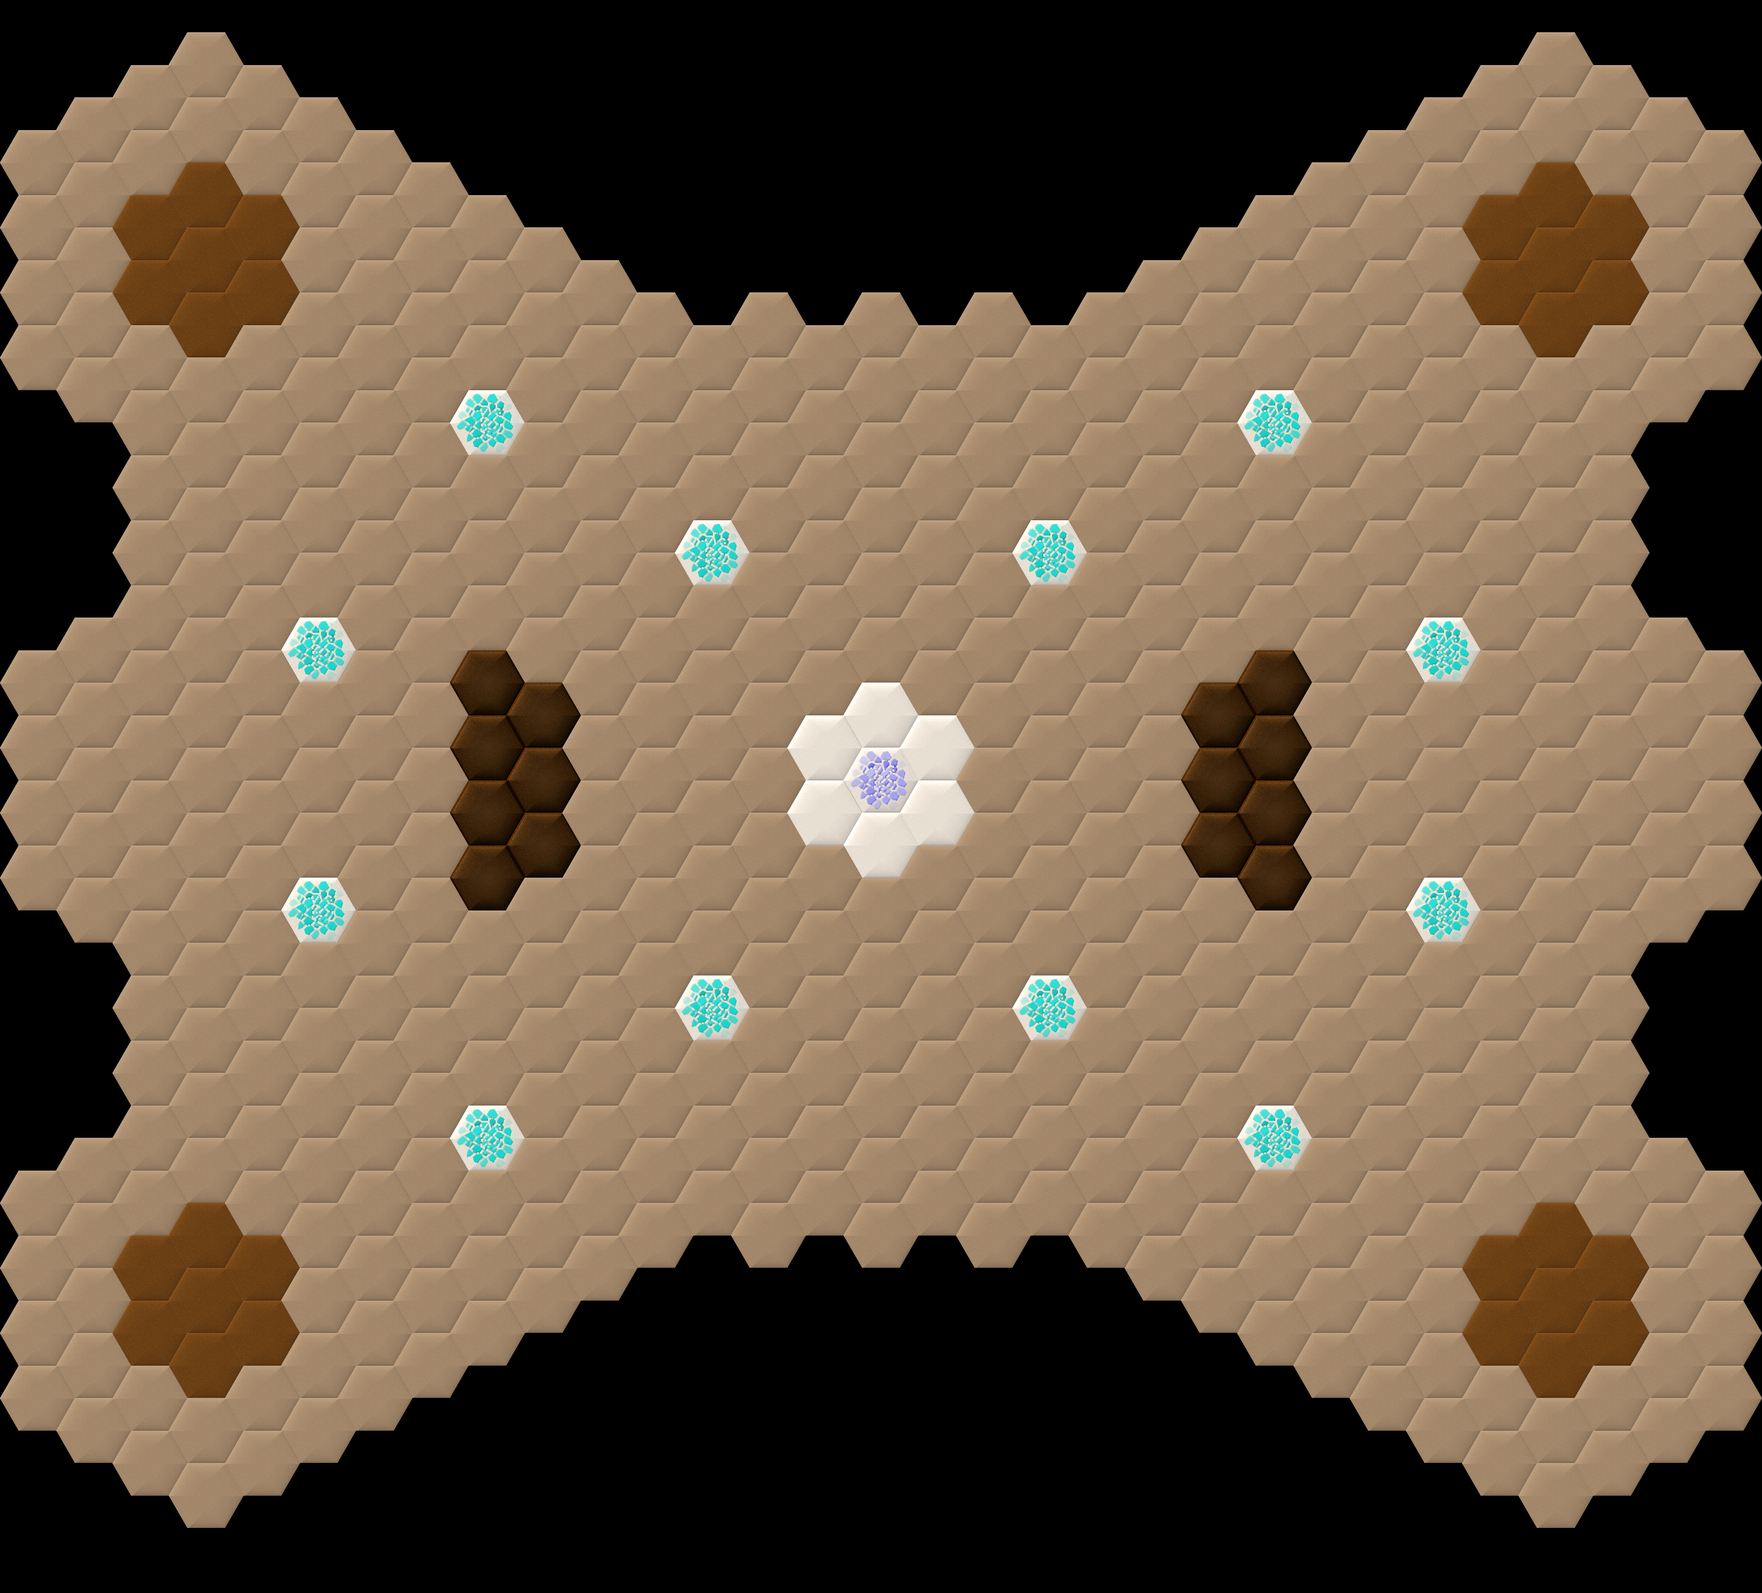
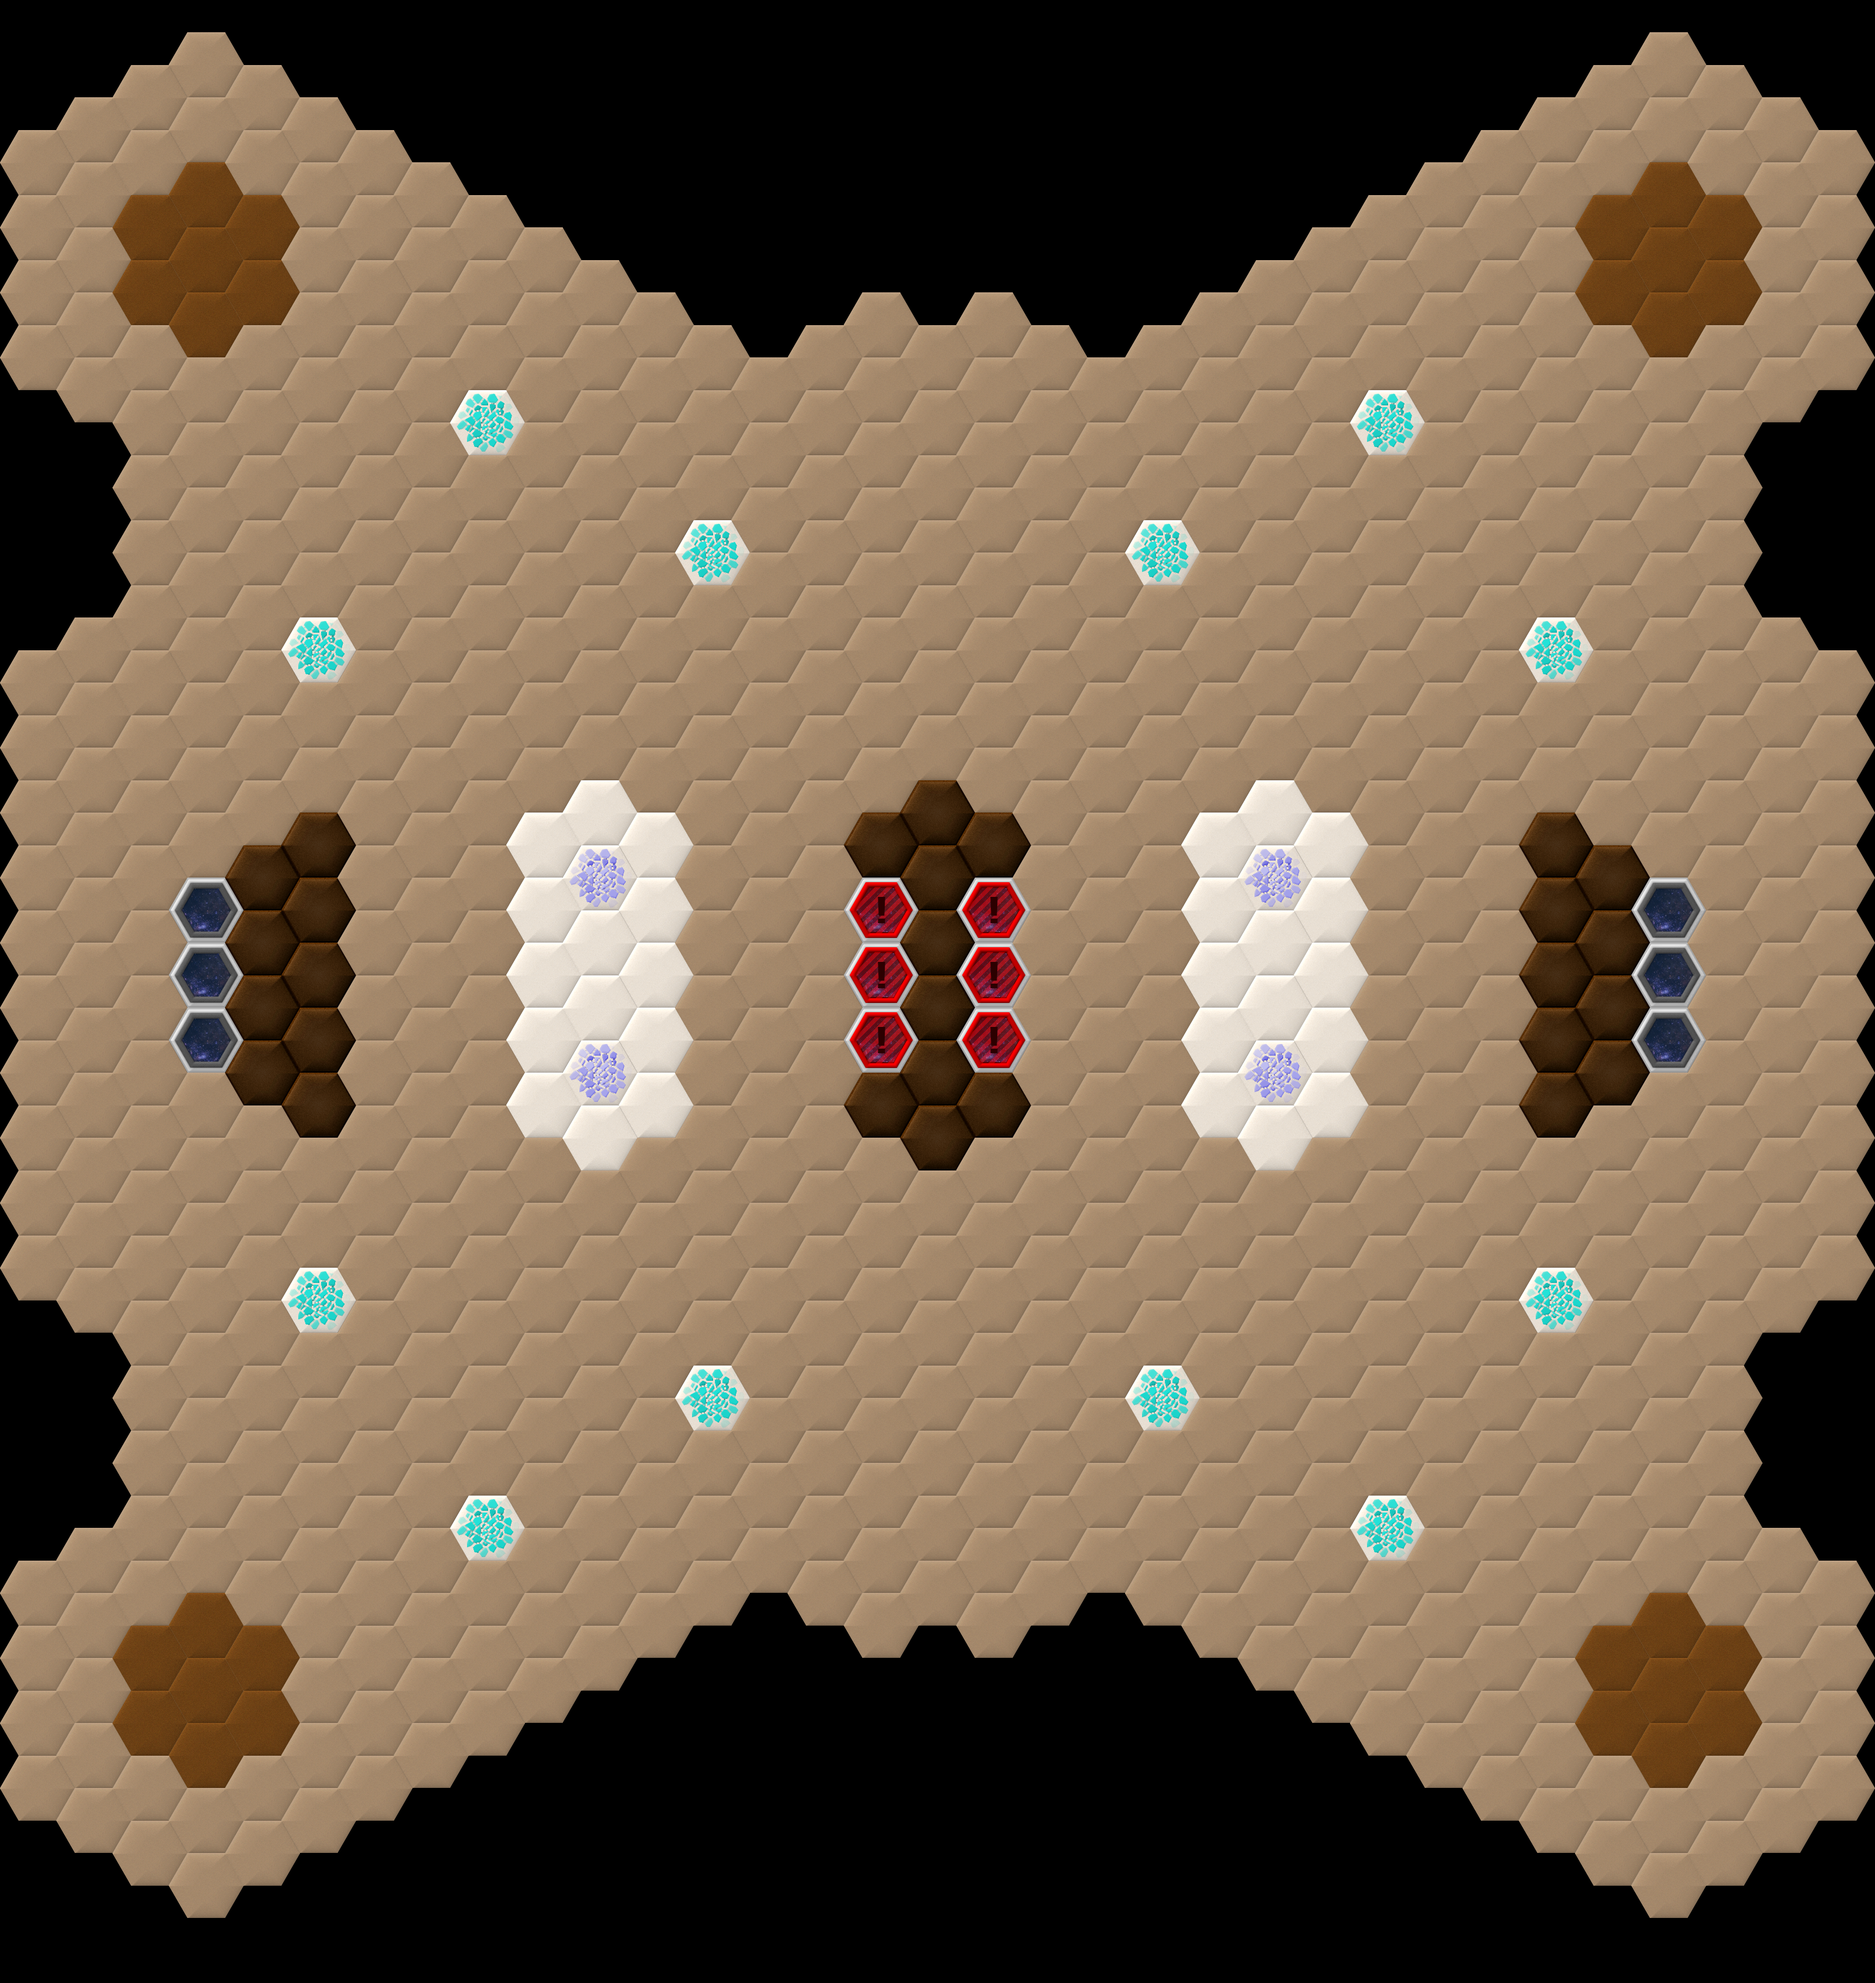
Upload new Vesa map

diff --git a/shared/maps/2v2.js b/shared/maps/2v2.js
@@ -4,34 +4,66 @@ module.exports = {
     name: "Vesa",
     image: "/resources/maps/2v2.png",
     data: [
-        "0 0 0 1 0 0 0 0 0 0 0 0 0 0 0 0 0 0 0 0 0 0 0 0 0 0 0 1 0 0 0",
-        "0 1 1 1 1 1 0 0 0 0 0 0 0 0 0 0 0 0 0 0 0 0 0 0 0 1 1 1 1 1 0",
-        "1 1 1 7 1 1 1 1 0 0 0 0 0 0 0 0 0 0 0 0 0 0 0 1 1 1 1 7 1 1 1",
-        "1 1 7 7 7 1 1 1 1 1 0 0 0 0 0 0 0 0 0 0 0 1 1 1 1 1 7 7 7 1 1",
-        "1 1 7 7 7 1 1 1 1 1 1 1 0 1 0 1 0 1 0 1 1 1 1 1 1 1 7 7 7 1 1",
-        "1 1 1 1 1 1 1 1 1 1 1 1 1 1 1 1 1 1 1 1 1 1 1 1 1 1 1 1 1 1 1",
-        "0 0 1 1 1 1 1 1 3 1 1 1 1 1 1 1 1 1 1 1 1 1 3 1 1 1 1 1 1 0 0",
-        "0 0 1 1 1 1 1 1 1 1 1 1 1 1 1 1 1 1 1 1 1 1 1 1 1 1 1 1 1 0 0",
-        "0 0 1 1 1 1 1 1 1 1 1 1 3 1 1 1 1 1 3 1 1 1 1 1 1 1 1 1 1 0 0",
-        "0 1 1 1 1 3 1 1 1 1 1 1 1 1 1 1 1 1 1 1 1 1 1 1 1 3 1 1 1 1 0",
-        "1 1 1 1 1 1 1 1 5 5 1 1 1 1 1 6 1 1 1 1 1 5 5 1 1 1 1 1 1 1 1",
-        "1 1 1 1 1 1 1 1 5 5 1 1 1 1 6 4 6 1 1 1 1 5 5 1 1 1 1 1 1 1 1",
-        "1 1 1 1 1 1 1 1 5 5 1 1 1 1 6 6 6 1 1 1 1 5 5 1 1 1 1 1 1 1 1",
-        "1 1 1 1 1 3 1 1 5 1 1 1 1 1 1 1 1 1 1 1 1 1 5 1 1 3 1 1 1 1 1",
-        "0 0 1 1 1 1 1 1 1 1 1 1 1 1 1 1 1 1 1 1 1 1 1 1 1 1 1 1 1 0 0",
-        "0 0 1 1 1 1 1 1 1 1 1 1 3 1 1 1 1 1 3 1 1 1 1 1 1 1 1 1 1 0 0",
-        "0 0 1 1 1 1 1 1 1 1 1 1 1 1 1 1 1 1 1 1 1 1 1 1 1 1 1 1 1 0 0",
-        "0 1 1 1 1 1 1 1 3 1 1 1 1 1 1 1 1 1 1 1 1 1 3 1 1 1 1 1 1 1 0",
-        "1 1 1 7 1 1 1 1 1 1 1 1 1 1 1 1 1 1 1 1 1 1 1 1 1 1 1 7 1 1 1",
-        "1 1 7 7 7 1 1 1 1 1 1 0 0 0 0 0 0 0 0 0 1 1 1 1 1 1 7 7 7 1 1",
-        "1 1 7 7 7 1 1 1 1 0 0 0 0 0 0 0 0 0 0 0 0 0 1 1 1 1 7 7 7 1 1",
-        "1 1 1 1 1 1 1 0 0 0 0 0 0 0 0 0 0 0 0 0 0 0 0 0 1 1 1 1 1 1 1",
-        "0 0 1 1 1 0 0 0 0 0 0 0 0 0 0 0 0 0 0 0 0 0 0 0 0 0 1 1 1 0 0",
-        "0 0 0 0 0 0 0 0 0 0 0 0 0 0 0 0 0 0 0 0 0 0 0 0 0 0 0 0 0 0 0"
+        "0 0 0 1 0 0 0 0 0 0 0 0 0 0 0 0 0 0 0 0 0 0 0 0 0 0 0 0 0 1 0 0 0",
+        "0 1 1 1 1 1 0 0 0 0 0 0 0 0 0 0 0 0 0 0 0 0 0 0 0 0 0 1 1 1 1 1 0",
+        "1 1 1 7 1 1 1 1 0 0 0 0 0 0 0 0 0 0 0 0 0 0 0 0 0 1 1 1 1 7 1 1 1",
+        "1 1 7 7 7 1 1 1 1 1 0 0 0 0 0 0 0 0 0 0 0 0 0 1 1 1 1 1 7 7 7 1 1",
+        "1 1 7 7 7 1 1 1 1 1 1 1 0 0 0 1 0 1 0 0 0 1 1 1 1 1 1 1 7 7 7 1 1",
+        "1 1 1 1 1 1 1 1 1 1 1 1 1 1 1 1 1 1 1 1 1 1 1 1 1 1 1 1 1 1 1 1 1",
+        "0 0 1 1 1 1 1 1 3 1 1 1 1 1 1 1 1 1 1 1 1 1 1 1 3 1 1 1 1 1 1 0 0",
+        "0 0 1 1 1 1 1 1 1 1 1 1 1 1 1 1 1 1 1 1 1 1 1 1 1 1 1 1 1 1 1 0 0",
+        "0 0 1 1 1 1 1 1 1 1 1 1 3 1 1 1 1 1 1 1 3 1 1 1 1 1 1 1 1 1 1 0 0",
+        "0 1 1 1 1 3 1 1 1 1 1 1 1 1 1 1 1 1 1 1 1 1 1 1 1 1 1 3 1 1 1 1 0",
+        "1 1 1 1 1 1 1 1 1 1 1 1 1 1 1 1 1 1 1 1 1 1 1 1 1 1 1 1 1 1 1 1 1",
+        "1 1 1 1 1 1 1 1 1 1 1 1 1 1 1 1 1 1 1 1 1 1 1 1 1 1 1 1 1 1 1 1 1",
+        "1 1 1 1 1 5 1 1 1 6 6 6 1 1 1 5 5 5 1 1 1 6 6 6 1 1 1 5 1 1 1 1 1",
+        "1 1 1 8 5 5 1 1 1 6 4 6 1 1 1 9 5 9 1 1 1 6 4 6 1 1 1 5 5 8 1 1 1",
+        "1 1 1 8 5 5 1 1 1 6 6 6 1 1 1 9 5 9 1 1 1 6 6 6 1 1 1 5 5 8 1 1 1",
+        "1 1 1 8 5 5 1 1 1 6 6 6 1 1 1 9 5 9 1 1 1 6 6 6 1 1 1 5 5 8 1 1 1",
+        "1 1 1 1 5 5 1 1 1 6 4 6 1 1 1 5 5 5 1 1 1 6 4 6 1 1 1 5 5 1 1 1 1",
+        "1 1 1 1 1 1 1 1 1 1 6 1 1 1 1 1 5 1 1 1 1 1 6 1 1 1 1 1 1 1 1 1 1",
+        "1 1 1 1 1 1 1 1 1 1 1 1 1 1 1 1 1 1 1 1 1 1 1 1 1 1 1 1 1 1 1 1 1",
+        "1 1 1 1 1 3 1 1 1 1 1 1 1 1 1 1 1 1 1 1 1 1 1 1 1 1 1 3 1 1 1 1 1",
+        "0 0 1 1 1 1 1 1 1 1 1 1 1 1 1 1 1 1 1 1 1 1 1 1 1 1 1 1 1 1 1 0 0",
+        "0 0 1 1 1 1 1 1 1 1 1 1 3 1 1 1 1 1 1 1 3 1 1 1 1 1 1 1 1 1 1 0 0",
+        "0 0 1 1 1 1 1 1 1 1 1 1 1 1 1 1 1 1 1 1 1 1 1 1 1 1 1 1 1 1 1 0 0",
+        "0 1 1 1 1 1 1 1 3 1 1 1 1 1 1 1 1 1 1 1 1 1 1 1 3 1 1 1 1 1 1 1 0",
+        "1 1 1 7 1 1 1 1 1 1 1 1 1 0 1 1 1 1 1 0 1 1 1 1 1 1 1 1 1 7 1 1 1",
+        "1 1 7 7 7 1 1 1 1 1 1 0 0 0 0 0 0 0 0 0 0 0 1 1 1 1 1 1 7 7 7 1 1",
+        "1 1 7 7 7 1 1 1 1 0 0 0 0 0 0 0 0 0 0 0 0 0 0 0 1 1 1 1 7 7 7 1 1",
+        "1 1 1 1 1 1 1 0 0 0 0 0 0 0 0 0 0 0 0 0 0 0 0 0 0 0 1 1 1 1 1 1 1",
+        "0 0 1 1 1 0 0 0 0 0 0 0 0 0 0 0 0 0 0 0 0 0 0 0 0 0 0 0 1 1 1 0 0",
+        "0 0 0 0 0 0 0 0 0 0 0 0 0 0 0 0 0 0 0 0 0 0 0 0 0 0 0 0 0 0 0 0 0"
     ],
-    commandCenterLocations: [new Tuple(3, 3), new Tuple(27, 19), new Tuple(27, 3), new Tuple(3, 19)],
+    commandCenterLocations: [new Tuple(3, 3), new Tuple(29, 25), new Tuple(29, 3), new Tuple(3, 25)],
     movement: [new Tuple(500, 500), new Tuple(2500, 1700), new Tuple(500, 1700), new Tuple(2500, 500)],
     movementIndex: 0,
     percentageClaimToWin: 0.6,
-    teams: [1, 2, 1, 2]
+    teams: [1, 2, 1, 2],
+    teleporters: [
+        {
+            in: new Tuple(3, 13),
+            out: new Tuple(17, 13)
+        },
+        {
+            in: new Tuple(3, 14),
+            out: new Tuple(17, 14)
+        },
+        {
+            in: new Tuple(3, 15),
+            out: new Tuple(17, 15)
+        },
+        {
+            in: new Tuple(29, 13),
+            out: new Tuple(15, 13)
+        },
+        {
+            in: new Tuple(29, 14),
+            out: new Tuple(15, 14)
+        },
+        {
+            in: new Tuple(29, 15),
+            out: new Tuple(15, 15)
+        }
+    ]
 };
